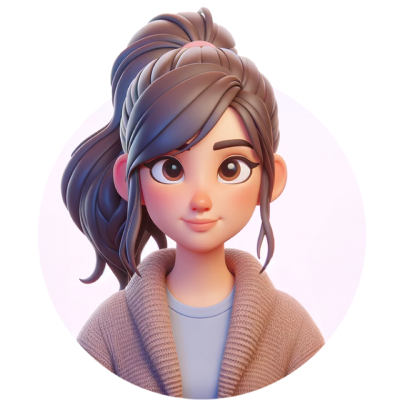
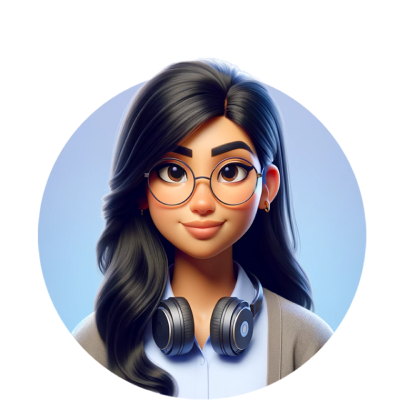
Add webcam functionality and update image assets
- Integrated react-webcam for capturing images.
- Updated image assets in various components.
- Modified styles in Bottom and Chat components for better UI.
- Enhanced Msg component for improved message display.

diff --git a/src/components/chatMenu/Chat.jsx b/src/components/chatMenu/Chat.jsx
@@ -1,12 +1,14 @@
 import React, { useState, useRef, useEffect } from 'react'
 import { Phone } from '@/assets/icons/Phone';
 import Navdot from '@/assets/icons/Navdot.jsx';
-import userImage from '@/assets/images/user.jpg'
+import userImage from '@/assets/images/img3.png'
 import Msg  from './Msg.jsx';
 import Bottom from './Bottom.jsx';
+import WebCam from './WebCam.jsx';
 
 const Chat = () => {
   const [online, setOnline] = useState(true);
+  const [camera, setCameraopen] = useState(false);
 
   const [navpop, setNavpop] = useState(false);
   const messageEnd = useRef(null);
@@ -14,19 +16,19 @@ const Chat = () => {
  
   useEffect(() => {
     messageEnd.current?.scrollIntoView({ behavior: 'smooth' });
-  }, []); 
+  }, [camera]); 
 
   return (
     <div className='flex w-full h-full flex-col'>
         
         {/* chat header  */}
-        <div className='flex items-center w-full justify-between py-2 px-3 bg-white/50 rounded-t-2xl'>
+        <div className='flex items-center w-full justify-between py-2 px-3 bg-white/20 rounded-t-2xl'>
             <div className='flex gap-4 justify-between px-3 items-center'>
                 <span className='w-13 h-13 rounded-full overflow-hidden flex justify-center items-center' >
                     <img src={userImage} alt="user img" width="24" className=' scale-210 select-none' />
                 </span>
                 <div>
-                    <h2 className='font-[inter] text-lg leading-tight'>Arun</h2>
+                    <h2 className='font-[inter] text-lg leading-tight select-none'>Arun</h2>
                     <p className={`text-[12px] px-2 py-0.5 w-fit rounded-full select-none font-medium ${
                         online ? 'text-green-700 bg-green-300' : 'text-gray-500 bg-amber-100'
                     }`}>
@@ -44,7 +46,7 @@ const Chat = () => {
                 {/* nav popup  */}
 
                 <div className={`absolute right-0 top-14 font-[inter] z-50 transition-all duration-200 ease-in-out ${!navpop ? "opacity-0 pointer-events-none -translate-y-2.5" : "opacity-100 translate-y-0"}`}>
-                    <ul className='w-32 flex flex-col overflow-hidden bg-white/20 backdrop-blur-md border border-white/30 rounded-xl shadow-lg'>
+                    <ul className='w-32 flex flex-col overflow-hidden bg-white/40 backdrop-blur-3xl border border-white/30 rounded-xl shadow-lg select-none'>
                         <li><button 
                                 className='w-full text-center px-4 py-2 text-sm font-medium text-gray-800 hover:bg-white/30 transition-colors' 
                                 onClick={() => { setNavpop(prev => !prev); setOnline(prev => !prev); }}>
@@ -82,6 +84,9 @@ const Chat = () => {
            <Msg user={true} message='Onnum illa vidu' min="1 Min ago" />
            <Msg message='apdilam vida mudiyadhu' min="1 Min ago" />
            <Msg user={true} message='mudiyadhuna poi savu da venna' min="Just Now" />
+           
+           {camera && <WebCam onClose={() => setCameraopen(false)} />}
+           
 
            <div ref={messageEnd}></div>
         </div>
@@ -90,7 +95,7 @@ const Chat = () => {
         {/* chat bottom  */}
 
         <div className='w-full flex justify-between px-3 py-2 gap-1 items-center self-end'>
-            <Bottom />
+            <Bottom onCameraClick={() => setCameraopen(prev => !prev)} />
         </div>
     </div>
   )

diff --git a/src/components/chatMenu/WebCam.jsx b/src/components/chatMenu/WebCam.jsx
@@ -1,0 +1,50 @@
+import React, {useRef, useCallback, useState } from 'react'
+import Webcam from 'react-webcam'
+import CameraIcon from '@/assets/icons/Camera';
+
+const WebCam = ({ onClose }) => {
+  const videoConstraints = {
+    width: 1280,
+    height: 720,
+    facingMode: "user"
+  };
+  const [sourceImg, setSourceimg] = useState(null);
+  const webcamRef = useRef(null);
+  const capture = useCallback(
+    ()=>{
+        setSourceimg(webcamRef.current?.getScreenshot());
+
+    },[webcamRef]
+  )
+
+  return (
+    <div className='absolute bottom-35 left-15'>
+        <div className='relative w-full max-w-sm mx-auto mb-4 rounded-2xl shadow-lg border-2 overflow-hidden border-white/20 bg-black aspect-video'>
+        <Webcam
+            audio={false}
+            height={1080}
+            ref={webcamRef}
+            screenshotFormat="image/jpeg"
+            width={1920}
+            mirrored={true}
+            videoConstraints={videoConstraints}
+            className='w-full h-full object-cover relative'
+        />
+        <button onClick={capture} className='absolute bottom-1 left-40 self-center bg-white/30 p-3 rounded-full cursor-pointer active:scale-90 transition-transform duration-100 ease-linear'>
+            <CameraIcon />
+        </button>
+        <button 
+            onClick={onClose}
+            className='absolute top-2 right-2 p-1 bg-red-500/80 hover:bg-red-600 text-white rounded-full transition-colors'
+        >
+            <svg xmlns="http://www.w3.org/2000/svg" width="20" height="20" viewBox="0 0 24 24" fill="none" stroke="currentColor" strokeWidth="2" strokeLinecap="round" strokeLinejoin="round"><line x1="18" y1="6" x2="6" y2="18"></line><line x1="6" y1="6" x2="18" y2="18"></line></svg>
+        </button>
+        <div className='absolute bottom-4 rounded overflow-hidden left-1.5 w-15 bg-white/20'>
+            {sourceImg && (<img src={sourceImg} alt="captured img" />)}
+        </div>
+        </div>
+    </div>
+  )
+}
+
+export default WebCam

diff --git a/src/components/chatMenu/Bottom.jsx b/src/components/chatMenu/Bottom.jsx
@@ -8,7 +8,7 @@ import Send from '@/assets/icons/Send';
 // emoji keyboard 
 import EmojiPicker from 'emoji-picker-react';
 
-const Bottom = () => {
+const Bottom = ({ onCameraClick }) => {
 
   const [text, setText] = useState("");
   const [showEmoji, setShowEmoji] = useState(false);
@@ -35,9 +35,11 @@ const Bottom = () => {
         {/* icon section  */}
         <div className='flex rounded-xl overflow-hidden transition-colors duration-200 ease-in-out bg-white/20'>
             <Mic className="cursor-pointer hover:bg-[#aaadafb6] p-2" color="#313131" />
-            <Camera className="cursor-pointer hover:bg-[#aaadafb6] p-2" color="#313131" />
+            <span onClick={onCameraClick}>
+                <Camera className="cursor-pointer hover:bg-[#aaadafb6] p-2" color="#313131" />
+            </span>
         </div>
-        <div className='relative flex flex-1 py-1 rounded-3xl bg-white/20'>
+        <div className='relative flex flex-1 py-1 rounded-3xl bg-white/30'>
 
             <div 
               className={`absolute bottom-full left-0 mb-3 z-50 transition-all duration-300 ease-in-out 
@@ -56,7 +58,7 @@ const Bottom = () => {
               type="text"
               placeholder='Message'
               value={text}
-              className='focus:outline-0 w-full px-2 bg-transparent caret-amber-50 font-semibold cursor-context-menu'
+              className='focus:outline-0 w-full px-2 bg-transparent font-semibold cursor-context-menu'
               onChange={handleInputChange}
               onKeyDown={(e) => e.key === 'Enter' && handleSend()}
             />

diff --git a/src/components/chatMenu/Msg.jsx b/src/components/chatMenu/Msg.jsx
@@ -1,5 +1,5 @@
 import React from 'react'
-import userImage from '@/assets/images/user.jpg';
+import userImage from '@/assets/images/img3.png';
 import Smilyplus from '../../assets/icons/Smilyplus';
 
 const Msg = (
@@ -12,9 +12,9 @@ const Msg = (
   return (
      <div className={`flex ${user ? "flex-row-reverse" : "flex-row"} gap-2 items-start mb-2 group`}>
         
-       { !user && <span className='w-9 h-9 rounded-full overflow-hidden flex justify-center items-center object-cover object-center shrink-0'>
+       {/* { !user && <span className='w-9 h-9 rounded-full overflow-hidden flex justify-center items-center object-cover object-center shrink-0'>
             <img src={userImage} alt="user img" width="24" height="24" className=' scale-210' />
-        </span>}
+        </span>} */}
         
         <div className={`flex flex-col ${user ? "items-end" : "items-start"} max-w-[80%] `}>
           <div className='relative '>
@@ -24,7 +24,7 @@ const Msg = (
             <Smilyplus color="#4e4e4e" size={20} className={`absolute top-2 cursor-pointer transition-opacity duration-200 delay-100 opacity-0 group-hover:opacity-100 pointer-events-none group-hover:pointer-events-auto ${user ? "-left-7" : "-right-7" } `} />
           </div>
             
-            <span className='text-[10px] mt-1 opacity-60 font-medium px-1'>{min}</span>
+            <span className='text-[12px] opacity-80 mt-1 font-medium px-1 select-none'>{min}</span>
         </div>
     </div>
   )

diff --git a/src/components/login/LoginPage.jsx b/src/components/login/LoginPage.jsx
@@ -5,12 +5,15 @@ import img2 from '../../assets/images/img2.png';
 import img3 from '../../assets/images/img3.png';
 import img4 from '../../assets/images/img4.png';
 import img5 from '../../assets/images/img5.png';
+import img6 from '../../assets/images/img6.png';
+import img7 from '../../assets/images/img7.png';
+import img8 from '../../assets/images/img8.png';
 // import img from '../../assets/images/user.jpg';
 import Refresh  from '../../assets/icons/Refresh';
 
 const LoginPage = ({ onLogin }) => {
 
-    const imgList = [img1, img2, img3, img4, img5];
+    const imgList = [img1, img2, img3, img4, img5, img6, img7, img8];
     const [avatar, setAvatar] = useState(imgList[0]);
 
     const randomImg=(newImg)=>{

diff --git a/src/App.jsx b/src/App.jsx
@@ -36,7 +36,7 @@ const App = () => {
       
       <Backgroundlayer image={bgImg} />
     {isLoggedIn ? (
-      <div className='h-[95vh] w-full max-w-lg bg-white/40 rounded-2xl shadow-[0_4px_30px_rgba(0,0,0,0.1)] backdrop-blur-[7.2px] border border-white/2 overflow-hidden flex flex-col'>
+      <div className='h-[95vh] w-full max-w-lg bg-white/14 rounded-2xl shadow-2xl backdrop-blur-[5px] border border-white/30 overflow-hidden flex flex-col'>
         {/* <div className='border-r-grey border-r w-60'>
           <h1>sidebar</h1>
         </div> */}
